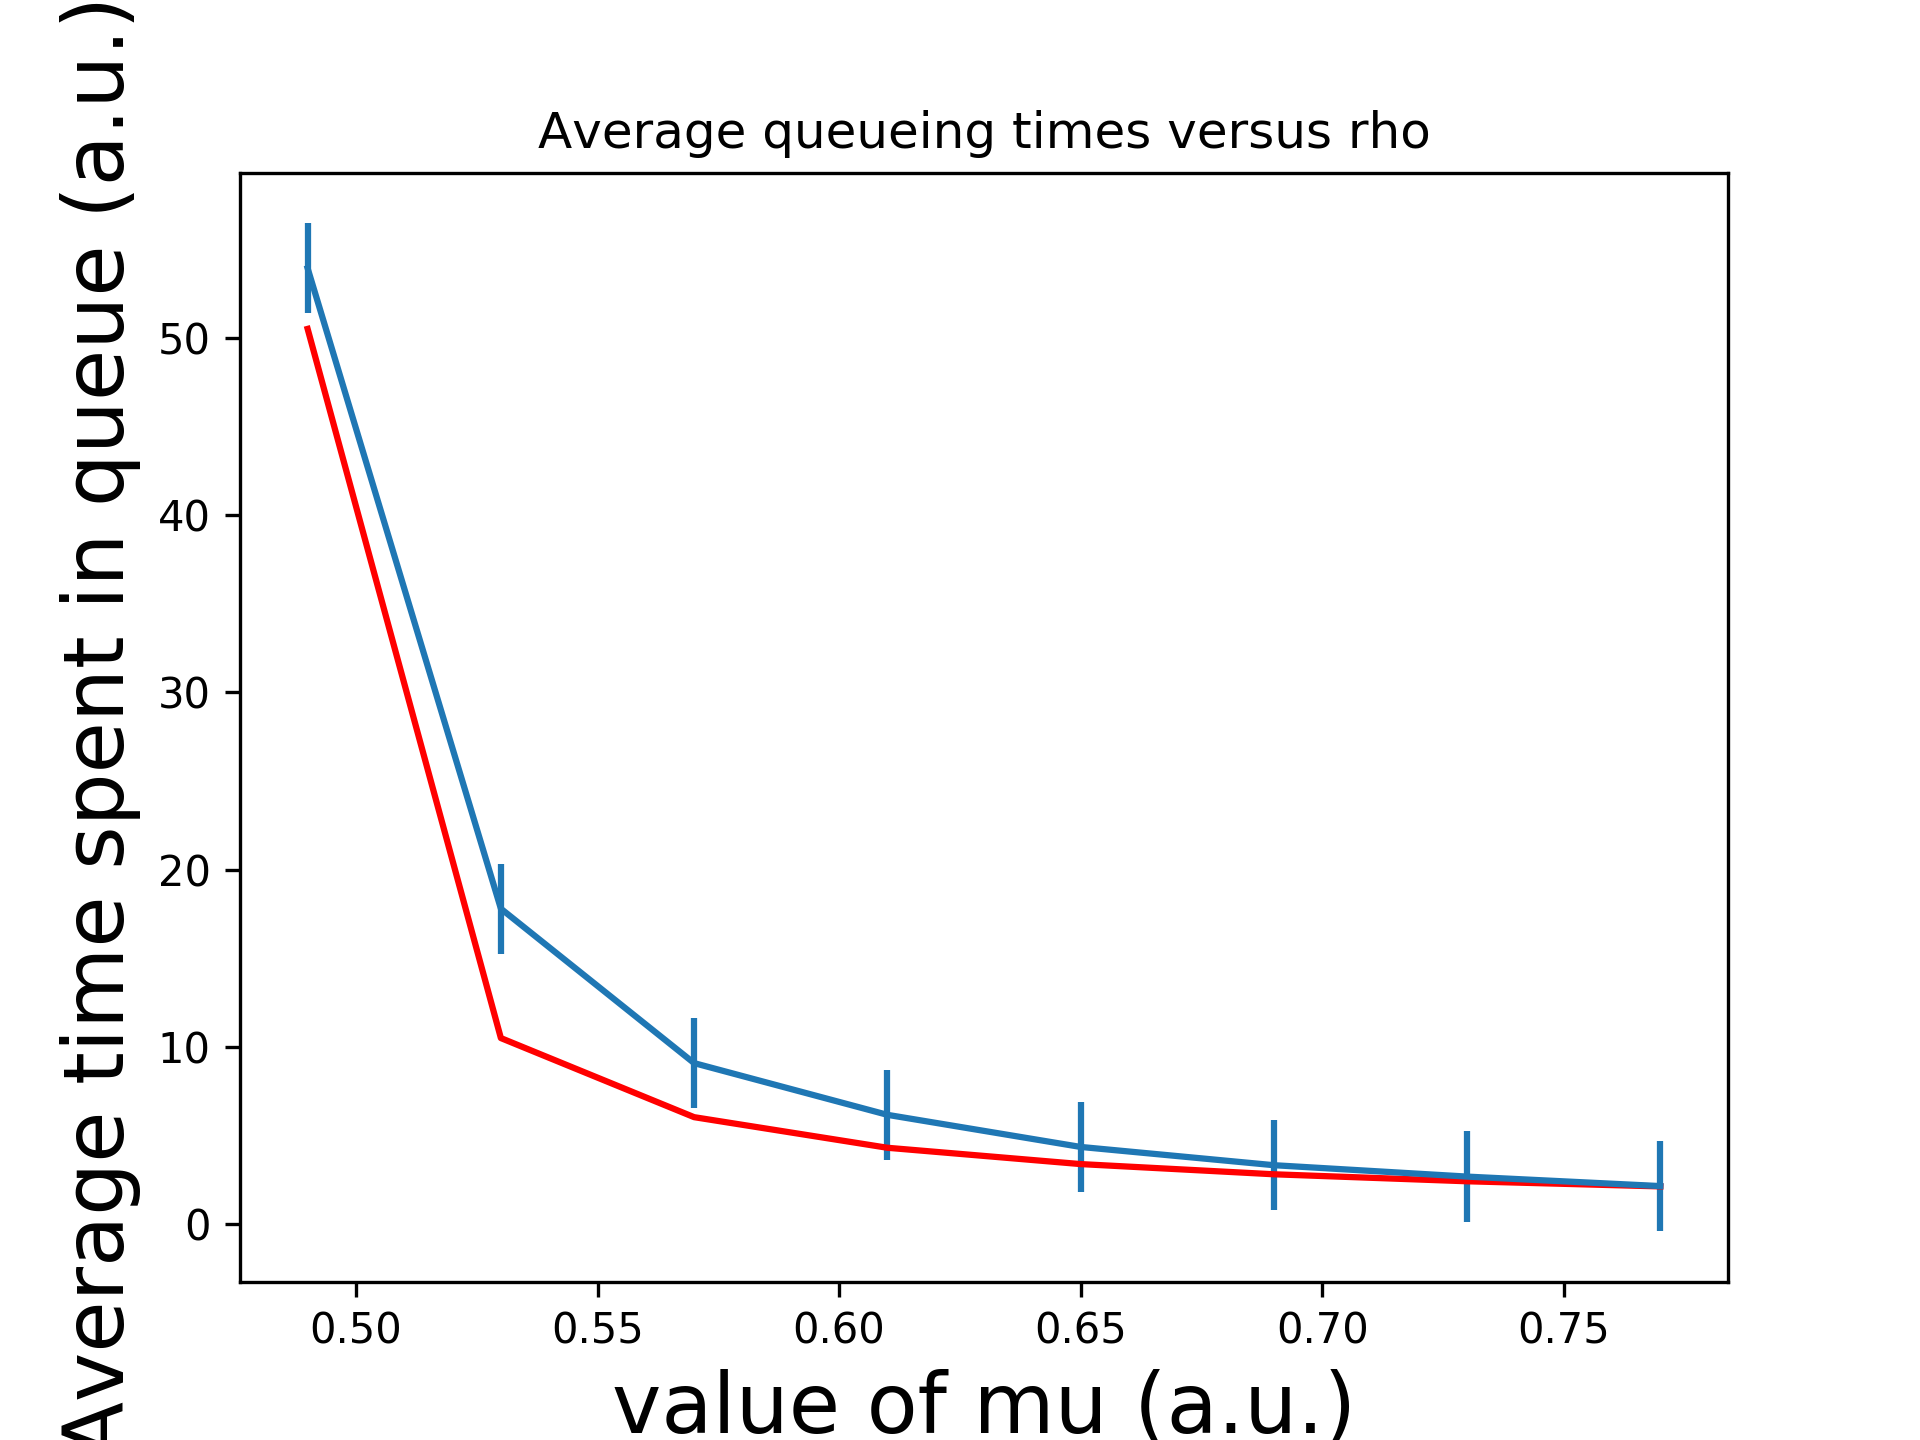
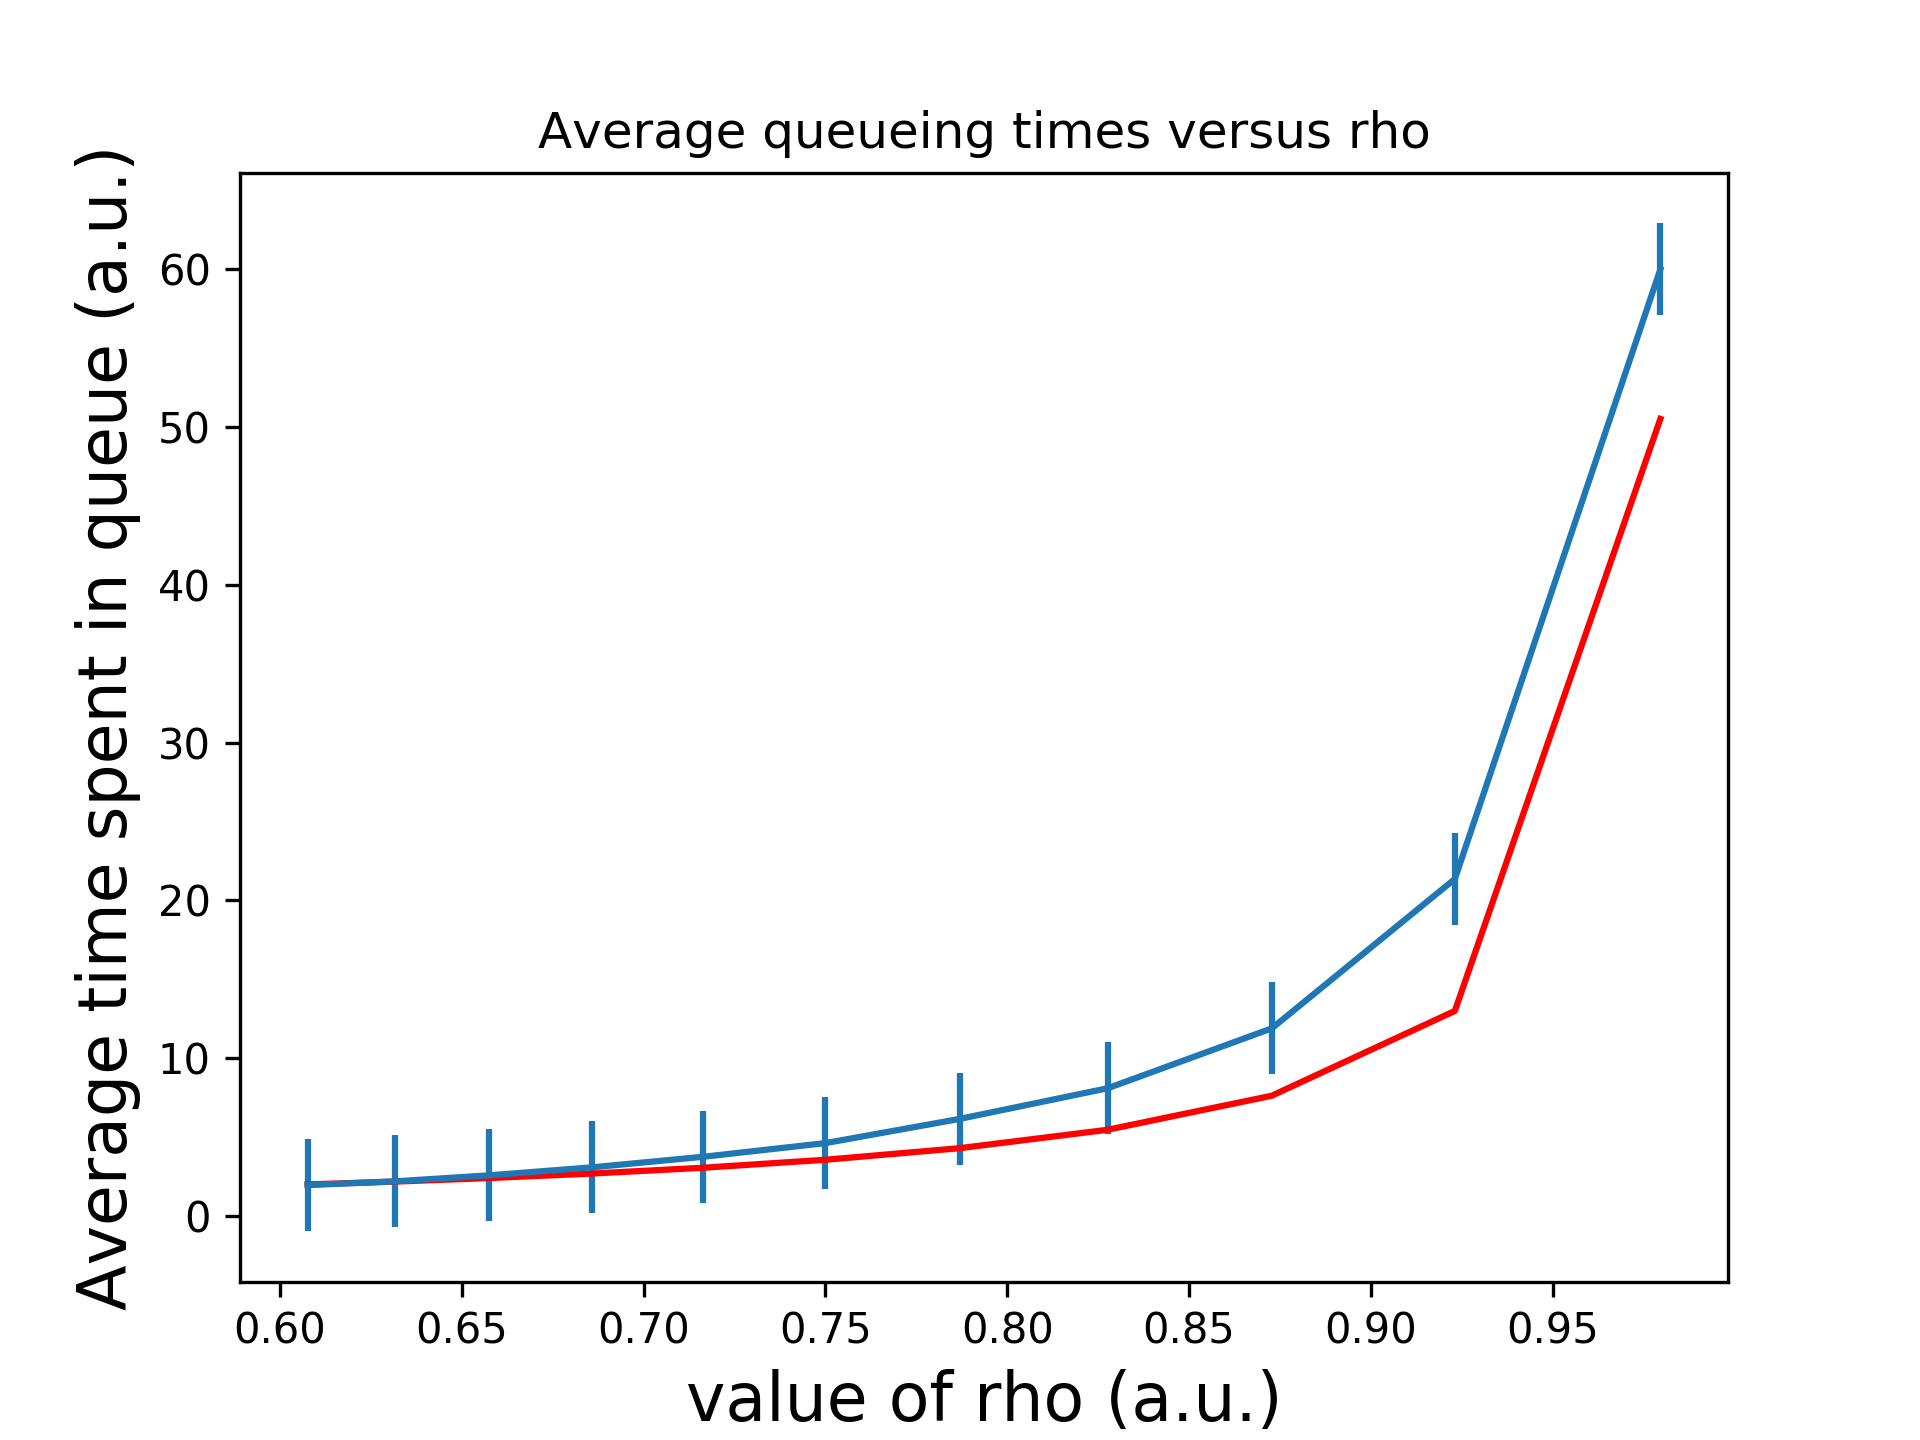
A lot of shitting around with the variance

diff --git a/Code/main.py b/Code/main.py
@@ -14,160 +14,116 @@ from scipy.optimize import curve_fit
 from scipy.special import factorial
 
 n_server = 1
-mu = 0.50
-l = 0.48
-endtime = 8000
-n_simulations = 100
+mu = 0.80
+l = 0.64
+end_n_actions = 100000
+batch_size = 25000 - 250
+initialisation_period = 1000
+n_simulations = 1
+n_batches = (end_n_actions-initialisation_period)/batch_size/2.
+print("this is the number of batches", n_batches)
 sjf = False  # use shortest job first
-main_program = False
-different_rho_comparison = True
 
-if main_program:
-    list_average_queuelength = []
-    list_average_queuingtimes = []
+list_average_queuelength = []
+list_average_queuingtimes = []
 
-    # run the simulation multiple times
-    for i in range(n_simulations):
+# run the simulation multiple times
+for i in range(n_simulations):
 
-        # initialize the global lists
-        init_global()
+    # initialize the global lists
+    init_global()
 
-        # create a simpy environment
-        env = simpy.Environment()
+    # create a simpy environment
+    env = simpy.Environment()
 
-        # set up the system
-        env.process(setup(env, n_server, mu, l, sjf))
+    # set up the system
+    env.process(setup(env, n_server, mu, l, sjf, end_n_actions))
 
-        # run the program
-        env.run(until=endtime)
+    # run the program
+    env.run()
+    # print("The number of measurements: ", len(global_variables.queue_length_list))
 
-        average_queuelength = np.average(global_variables.queue_length_list)
-        list_average_queuelength.append(average_queuelength)
+    average_queuelength = np.average(global_variables.queue_length_list)
+    list_average_queuelength.append(average_queuelength)
 
-        average_queuingtimes = np.average(global_variables.time_spend_in_queue_list)
-        list_average_queuingtimes.append(average_queuingtimes)
-
-        print("Now at simulation {}".format(i))
-
-    total_average_queuelength = np.average(list_average_queuelength)
-    variance_average_queuelength = 1. / (n_simulations - 1.) * sum(list_average_queuelength - total_average_queuelength)
-    nf_confidence_average_queuelength = 1.96 * np.sqrt(variance_average_queuelength/n_simulations)
-    print(nf_confidence_average_queuelength)
-
-    ########################################################################################################
-
-    # plot the distribution of the average queueing times
-    onesim_queueingtimes = plt.figure()
-    entries, bin_edges, patches = plt.hist(global_variables.time_spend_in_queue_list, bins=100, normed=True)
-    plt.title("The distribution of queueing times", fontsize=14)
-    plt.xlabel("Queueing times (a.u.)", fontsize=20)
-    plt.ylabel("Occurrence (#)", fontsize=20)
-    plt.savefig("onesim_queueingtimes_distribution.png", dpi=300)
-
-    ########################################################################################################
+    list_batch_averages = batch_averages(batch_size, initialisation_period)
+    average_queuingtimes = np.average(global_variables.time_spend_in_queue_list)
+    list_average_queuingtimes.append(average_queuingtimes)
 
 
-    # plot the distribution of the average queue lengths
-    plt.figure()
-    entries, bin_edges, patches = plt.hist(list_average_queuelength, bins = 100, normed=True)
-    plt.title("The distribution of the average queue lengths\n of the different simulations", fontsize=14)
-    plt.xlabel("Average queueing lengths (#)", fontsize=20)
-    plt.ylabel("Occurrence (#)", fontsize=20)
-    # fit poisson distribution to data
-    # x_plot = np.linspace(1, 60, 1000)
-    # plt.plot(x_plot, poisson_fit(entries, bin_edges, x_plot), 'r-', lw=2)
+    print("Now at simulation {}".format(i))
 
+print(list_batch_averages, np.average(list_batch_averages))
+print("this is the sum",np.sum((list_batch_averages - np.average(list_batch_averages))**2))
+variance = batch_size / (n_batches-1) * np.sum((list_batch_averages - np.average(list_batch_averages))**2)
+print("variance", variance)
+standard_deviation = np.sqrt(variance)
+########################################################################################################
 
-    ########################################################################################################
-
-    # plot the distribution of servicing times
-    plt.figure()
-    plt.title("A histogram of the time helping costs \n of one simulation")
-    plt.ylabel("Occurrence (#)", fontsize=20)
-    plt.xlabel("Helping times (a.u.)", fontsize=20)
-    plt.hist(global_variables.list_helptime)
-
-    ########################################################################################################
-
-    # plot the distribution of the interarrival times
-    plt.figure()
-    plt.title("A histogram of the time inbetween arrivals of tasks")
-    plt.ylabel("Occurrence (#)", fontsize=20)
-    plt.xlabel("Inter-arrival times (a.u.)", fontsize=20)
-    plt.hist(global_variables.list_arrivaltime)
-
-    ########################################################################################################
-
-
-    # plot the queue length at different times
-    plt.figure()
-    plt.title("Queue length versus time")
-    plt.ylabel("Queue length (#)", fontsize=20)
-    plt.xlabel("Time (a.u.)", fontsize=20)
-    plt.plot(global_variables.queue_time_list, global_variables.queue_length_list)
-
-    ########################################################################################################
-
-    plt.figure()
-    entries, bin_edges, patches = plt.hist(list_average_queuingtimes, bins = 100)
-    plt.title("The distribution of the average waiting times\n of the different simulations", fontsize=14)
-    plt.xlabel("Average queueing times (#)", fontsize=20)
-    plt.ylabel("Occurrence (#)", fontsize=20)
-    # x_plot = np.linspace(0, 60, 1000)
-    # plt.plot(x_plot, poisson_fit(entries, bin_edges, x_plot), 'r-', lw=2)
-
-
-    ########################################################################################################
-
-'''Run simulation for different values of rho'''
-if different_rho_comparison:
-    list_nf_confidence_average_queuetimes = []
-    list_total_average_queuetimes = []
-    mu_range = np.arange(l+0.01, 0.8, 0.04)
-    for mu in mu_range:
-        list_average_queuelength = []
-        list_average_queuingtimes = []
-
-        # run the simulation multiple times
-        for i in range(n_simulations):
-
-            # initialize the global lists
-            init_global()
-
-            # create a simpy environment
-            env = simpy.Environment()
-
-            # set up the system
-            env.process(setup(env, n_server, mu, l, sjf))
-
-            # run the program
-            env.run(until=endtime)
-
-            average_queuelength = np.average(global_variables.queue_length_list)
-            list_average_queuelength.append(average_queuelength)
-
-            average_queuingtimes = np.average(global_variables.time_spend_in_queue_list)
-            list_average_queuingtimes.append(average_queuingtimes)
-
-            print("Now at simulation {}".format(i))
-
-        total_average_queuetimes = np.average(list_average_queuingtimes)
-        list_total_average_queuetimes.append(total_average_queuetimes)
-        variance_average_queuetimes = len(global_variables.queue_length_list) / (n_simulations - 1.) * sum((list_average_queuingtimes - total_average_queuetimes)**2)
-        nf_confidence_average_queuetimes = 1.96 * np.sqrt(variance_average_queuetimes/n_simulations)
-        list_nf_confidence_average_queuetimes.append(nf_confidence_average_queuetimes)
-
-    theoretical_waitingtime = (l/mu_range)/(l*(1.-(l/mu_range)**2))
-    print(l/mu_range)
-    print(l*(1.-(l/mu_range)**2))
-
-    plt.figure()
-    plt.errorbar(mu_range, list_total_average_queuetimes, nf_confidence_average_queuetimes)
-    plt.plot(mu_range, theoretical_waitingtime, 'r')
-    plt.title("Average queueing times versus rho")
-    plt.xlabel("value of mu (a.u.)", fontsize=20)
-    plt.ylabel("Average time spent in queue (a.u.)", fontsize=20)
-    plt.savefig("queueingtimedifferentrhoscomparison.png", dpi=300)
-
-
+print("The average queueing time is {} +- {}".format(np.average(list_batch_averages), standard_deviation))
+plt.figure()
+plt.plot(list_batch_averages)
 plt.show()
+
+
+# plot the distribution of the average queueing times
+onesim_queueingtimes = plt.figure()
+entries, bin_edges, patches = plt.hist(global_variables.time_spend_in_queue_list, bins=100, normed=True)
+plt.title("The distribution of queueing times", fontsize=14)
+plt.xlabel("Queueing times (a.u.)", fontsize=16)
+plt.ylabel("Occurrence (#)", fontsize=16)
+plt.savefig("onesim_queueingtimes_distribution.png", dpi=300)
+
+########################################################################################################
+
+
+# plot the distribution of the average queue lengths
+plt.figure()
+entries, bin_edges, patches = plt.hist(list_average_queuelength, bins = 100, normed=True)
+plt.title("The distribution of the average queue lengths\n of the different simulations", fontsize=14)
+plt.xlabel("Average queueing lengths (#)", fontsize=16)
+plt.ylabel("Occurrence (#)", fontsize=16)
+# fit poisson distribution to data
+# x_plot = np.linspace(1, 60, 1000)
+# plt.plot(x_plot, poisson_fit(entries, bin_edges, x_plot), 'r-', lw=2)
+
+
+########################################################################################################
+
+# plot the distribution of servicing times
+plt.figure()
+plt.title("A histogram of the time helping costs \n of one simulation")
+plt.ylabel("Occurrence (#)", fontsize=16)
+plt.xlabel("Helping times (a.u.)", fontsize=16)
+plt.hist(global_variables.list_helptime)
+
+########################################################################################################
+
+# plot the distribution of the interarrival times
+plt.figure()
+plt.title("A histogram of the time inbetween arrivals of tasks")
+plt.ylabel("Occurrence (#)", fontsize=16)
+plt.xlabel("Inter-arrival times (a.u.)", fontsize=16)
+plt.hist(global_variables.list_arrivaltime)
+
+########################################################################################################
+
+
+# plot the queue length at different times
+plt.figure()
+plt.title("Queue length versus time")
+plt.ylabel("Queue length (#)", fontsize=16)
+plt.xlabel("Time (a.u.)", fontsize=16)
+plt.plot(global_variables.queue_time_list, global_variables.queue_length_list)
+
+########################################################################################################
+
+plt.figure()
+entries, bin_edges, patches = plt.hist(list_average_queuingtimes, bins = 100)
+plt.title("The distribution of the average queueing times\n of the different simulations", fontsize=14)
+plt.xlabel("Average queueing times (a.u.)", fontsize=16)
+plt.ylabel("Occurrence (#)", fontsize=16)
+# x_plot = np.linspace(0, 60, 1000)
+# plt.plot(x_plot, poisson_fit(entries, bin_edges, x_plot), 'r-', lw=2)
+
+

diff --git a/Code/comparedifferentrhos.py b/Code/comparedifferentrhos.py
@@ -1,0 +1,73 @@
+from functions import *
+from packages import *
+from global_variables import init_global
+
+# initialize global variables, probably also an idea for the other variables that need to be used
+import_packages()
+
+import simpy
+import matplotlib.pyplot as plt
+import random as rd
+import numpy as np
+import os
+from scipy.optimize import curve_fit
+from scipy.special import factorial
+
+n_server = 2
+mu = 0.50
+l = 0.48
+endtime = 8000
+n_simulations = 1500
+sjf = False  # use shortest job first
+
+'''Run simulation for different values of rho'''
+list_nf_confidence_average_queuetimes = []
+list_total_average_queuetimes = []
+mu_range = np.arange(l+0.01, 0.8, 0.03)
+for mu in mu_range:
+    list_average_queuelength = []
+    list_average_queuingtimes = []
+
+    # run the simulation multiple times
+    for i in range(n_simulations):
+
+        # initialize the global lists
+        init_global()
+
+        # create a simpy environment
+        env = simpy.Environment()
+
+        # set up the system
+        env.process(setup(env, n_server, mu, l, sjf))
+
+        # run the program
+        env.run(until=endtime)
+
+        average_queuelength = np.average(global_variables.queue_length_list)
+        list_average_queuelength.append(average_queuelength)
+
+        average_queuingtimes = np.average(global_variables.time_spend_in_queue_list)
+        list_average_queuingtimes.append(average_queuingtimes)
+
+        print("Now at simulation {}".format(i))
+
+    total_average_queuetimes = np.average(list_average_queuingtimes)
+    list_total_average_queuetimes.append(total_average_queuetimes)
+    variance_average_queuetimes = len(global_variables.queue_length_list) / (n_simulations - 1.) * sum((list_average_queuingtimes - total_average_queuetimes)**2)
+    nf_confidence_average_queuetimes = 1.96 * np.sqrt(variance_average_queuetimes/n_simulations)
+    list_nf_confidence_average_queuetimes.append(nf_confidence_average_queuetimes)
+
+theoretical_waitingtime = (l/mu_range)/(l*(1.-(l/mu_range)**2))
+print(l/mu_range)
+print(l*(1.-(l/mu_range)**2))
+
+plt.figure()
+plt.errorbar(l/mu_range, list_total_average_queuetimes, nf_confidence_average_queuetimes)
+plt.plot(l/mu_range, theoretical_waitingtime, 'r')
+plt.title("Average queueing times versus rho")
+plt.xlabel("value of rho (a.u.)", fontsize=16)
+plt.ylabel("Average time spent in queue (a.u.)", fontsize=16)
+plt.savefig("queueingtimedifferentrhoscomparison.png", dpi=300)
+
+
+plt.show()

diff --git a/Code/functions.py b/Code/functions.py
@@ -29,7 +29,7 @@ def task(env, name, ss, mu, sjf):
     global_variables.queue_time_list.append(env.now)
 
     # calculate how long helping is going to take
-    helptime = np.random.exponential(1 / mu)
+    helptime = np.random.exponential(1/mu)  # generates pdf mu * exp(-mu*x)
 
     # append the helptime of a task to a global list
     global_variables.list_helptime.append(helptime)
@@ -50,7 +50,7 @@ def task(env, name, ss, mu, sjf):
         global_variables.queue_length -= 1
         #print("{} carried out by server at {}".format(name, env.now))
 
-def setup(env, n_server, mu, l, sjf):
+def setup(env, n_server, mu, l, sjf, end_n_actions):
     '''Here we create a server system with a certain number of servers. We start creating cars at random'''
     serversystem = Serversystem(env, n_server, mu)
 
@@ -59,16 +59,20 @@ def setup(env, n_server, mu, l, sjf):
     while True:
 
         # calculate the arrival time for the next task
-        arrivaltime = np.random.exponential(1/l)
+        arrivaltime = np.random.exponential(1/l) # generates pdf l * exp(-l*x)
 
         # append the arrival time to a global list
         global_variables.list_arrivaltime.append(arrivaltime)
 
         # wait until new task arrives
         yield env.timeout(arrivaltime) # arrival time needs to be made random
-        i += 1
-        env.process(task(env, 'Task{}'.format(i), serversystem, mu, sjf))
 
+        i += 1
+        task_ref = env.process(task(env, 'Task{}'.format(i), serversystem, mu, sjf))
+
+        if i == end_n_actions:
+            yield task_ref
+            break
 
 # poisson function, parameter lamb is the fit parameter
 def poisson(k, lamb, scale):
@@ -84,5 +88,10 @@ def poisson_fit(entries, bin_edges, x_plot):
     return poisson(x_plot, *parameters)
 
 
+def batch_averages(batch_size, initialisation_period):
+    shortened_queuing_times = global_variables.time_spend_in_queue_list[initialisation_period:-1]
+    list_batch_averages = []
+    for i in range(0,len(shortened_queuing_times)/batch_size,2):
+        list_batch_averages.append(np.average(shortened_queuing_times[i*batch_size:(i+1)*batch_size]))
 
-
+    return list_batch_averages
